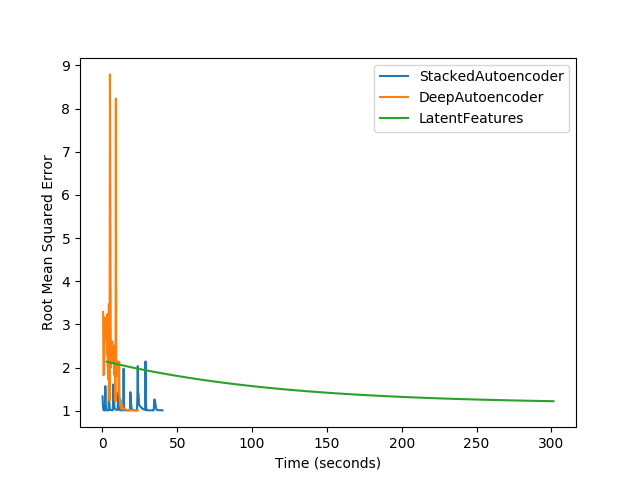
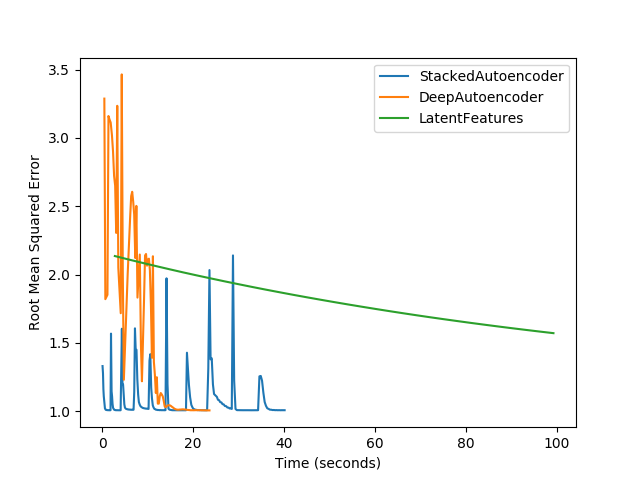
Time plot added

diff --git a/plotTime.py b/plotTime.py
@@ -7,7 +7,7 @@ plt.ioff()
 def plot_images(plot_data, labels, xlabel, ylabel, filename):
     refined_data = []
     for data in plot_data:
-        refined_data.append(list(filter(lambda x: x[1] < 25, data)))
+        refined_data.append(list(filter(lambda x: x[0] < 100 and x[1] < 5, data)))
 
     plt.clf()
     for data, label in zip(refined_data, labels):
